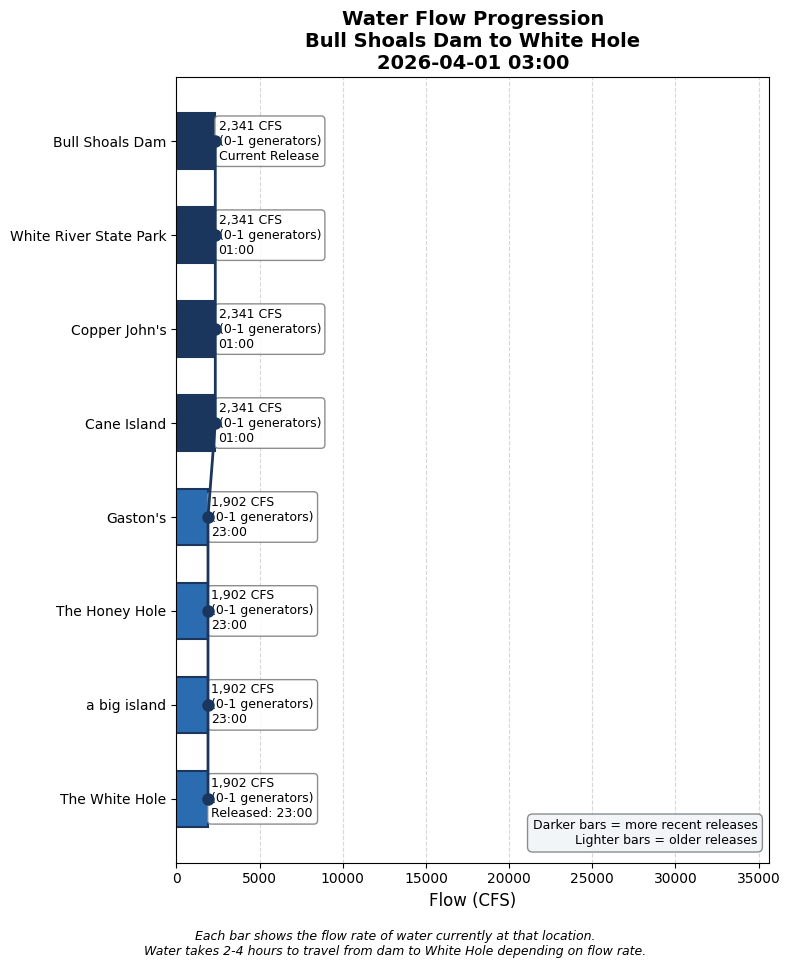
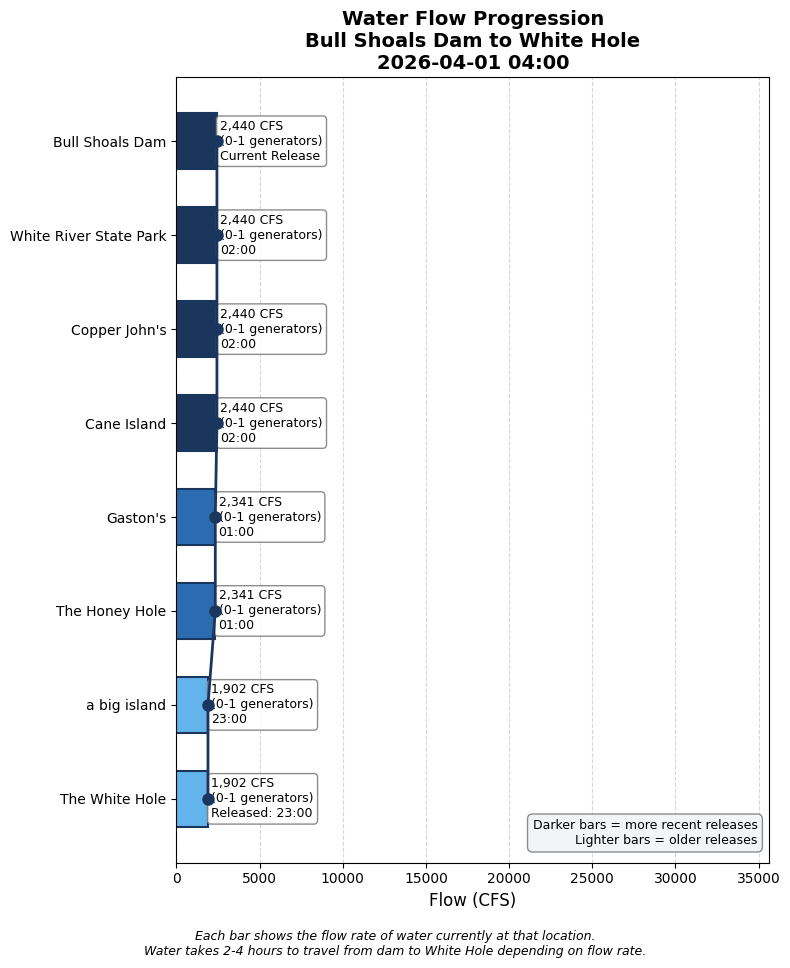
Update water conditions 2026-04-01 04:00

Changed region(s): [[0.2127, 0.4649, 0.4253, 0.8678], [0.2734, 0.124, 0.4253, 0.4649], [0.3949, 0.3099, 0.4253, 0.3719]]

diff --git a/white_hole_conditions.html b/white_hole_conditions.html
@@ -3,7 +3,7 @@
 <head>
     <meta charset="UTF-8">
     <meta name="viewport" content="width=device-width, initial-scale=1.0">
-    <title>White Hole Conditions - 2026-04-01 03:00</title>
+    <title>White Hole Conditions - 2026-04-01 04:00</title>
     <style>
         body {
             font-family: -apple-system, BlinkMacSystemFont, 'Segoe UI', Roboto, sans-serif;
@@ -148,12 +148,12 @@
 </head>
 <body>
     <h1>White Hole Current Conditions</h1>
-    <p class="subtitle">Wednesday, April 01, 2026 at 03:00 AM</p>
+    <p class="subtitle">Wednesday, April 01, 2026 at 04:00 AM</p>
 
     <!-- HEADLINE BANNER -->
     <div class="headline-banner">
         <div class="main-status">✅ GOOD WADING — Conditions favorable</div>
-        <div class="forecast-status">➡ STABLE CONDITIONS expected</div>
+        <div class="forecast-status">⏱ RISING WATER arriving in ~43 minutes</div>
     </div>
 
     <!-- CURRENT CONDITIONS -->
@@ -186,9 +186,15 @@
                 <tbody>
                     
                 <tr style="background-color: #ebf8ff;">
+                    <td style="padding: 10px; font-weight: bold;">02:00</td>
+                    <td style="padding: 10px;">2,440 CFS<br><small style="color: #666;">(0-1 generators)</small></td>
+                    <td style="padding: 10px;"><span style="color: #2b6cb0;">→ Arrives ~05:44 (in 103 min)</span></td>
+                </tr>
+            
+                <tr style="background-color: #ebf8ff;">
                     <td style="padding: 10px; font-weight: bold;">01:00</td>
                     <td style="padding: 10px;">2,341 CFS<br><small style="color: #666;">(0-1 generators)</small></td>
-                    <td style="padding: 10px;"><span style="color: #2b6cb0;">→ Arrives ~04:44 (in 103 min)</span></td>
+                    <td style="padding: 10px;"><span style="color: #2b6cb0;">→ Arrives ~04:44 (in 43 min)</span></td>
                 </tr>
             
                 <tr style="background-color: #e6fffa;">
@@ -198,8 +204,8 @@
                 </tr>
             
                 <tr style="">
-                    <td style="padding: 10px; font-weight: bold;">19:00</td>
-                    <td style="padding: 10px;">14,375 CFS<br><small style="color: #666;">(4-5 generators)</small></td>
+                    <td style="padding: 10px; font-weight: bold;">20:00</td>
+                    <td style="padding: 10px;">9,638 CFS<br><small style="color: #666;">(2-3 generators)</small></td>
                     <td style="padding: 10px;"><span style="color: #718096;">passed</span></td>
                 </tr>
             
@@ -224,7 +230,7 @@
         </summary>
         <div style="padding: 15px;">
             <ul>
-                <li>Latest dam reading: 2,341 CFS at 2026-04-01 01:00</li>
+                <li>Latest dam reading: 2,440 CFS at 2026-04-01 02:00</li>
                 <li>Travel time to White Hole: 3.7 hours at current flow</li>
                 <li>White Hole conditions based on dam reading from: 2026-03-31 23:00</li>
             </ul>
@@ -248,6 +254,13 @@
                     </thead>
                     <tbody>
                         
+                <tr style="border-bottom: 1px solid #eee;">
+                    <td style="padding: 8px;">2026-04-01 02:00</td>
+                    <td style="padding: 8px; text-align: right;">2440</td>
+                    <td style="padding: 8px; text-align: right;">0.7</td>
+                    <td style="padding: 8px; text-align: right;">3.7</td>
+                </tr>
+                
                 <tr style="border-bottom: 1px solid #eee;">
                     <td style="padding: 8px;">2026-04-01 01:00</td>
                     <td style="padding: 8px; text-align: right;">2341</td>
@@ -304,13 +317,6 @@
                     <td style="padding: 8px; text-align: right;">2.4</td>
                 </tr>
                 
-                <tr style="border-bottom: 1px solid #eee;">
-                    <td style="padding: 8px;">2026-03-31 16:00</td>
-                    <td style="padding: 8px; text-align: right;">8484</td>
-                    <td style="padding: 8px; text-align: right;">2.6</td>
-                    <td style="padding: 8px; text-align: right;">2.8</td>
-                </tr>
-                
                     </tbody>
                 </table>
             </div>
@@ -318,7 +324,7 @@
         
 
     <div class="timestamp">
-        Data retrieved and processed on 2026-04-01 03:00:11
+        Data retrieved and processed on 2026-04-01 04:00:08
     </div>
 </body>
 </html>
